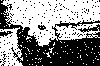
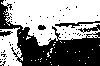
Add reconstruction function

diff --git a/proyecto-final/graph.py b/proyecto-final/graph.py
@@ -33,21 +33,28 @@ def add_costs(G, unary_matching_cost_source,
     edges = [edge for edge in G.edges()]
     for edge in edges:
         if isinstance(edge[0], tuple) and isinstance(edge[1], tuple):
-            if G.node[edge[0]]['value'] == G.node[edge[0]]['value']:
+            if G.node[edge[0]]['value'] == G.node[edge[1]]['value']:
                 G[edge[0]][edge[1]]['capacity'] = 0
             else:
                 G[edge[0]][edge[1]]['capacity'] = pairwise_cost
         elif isinstance(edge[0], tuple) and not isinstance(edge[1], tuple):
-            if G.node[edge[0]]['value'] == G.node[edge[0]]['value']:
+            if G.node[edge[0]]['value'] == G.node[edge[1]]['value']:
                 G[edge[0]][edge[1]]['capacity'] = unary_matching_cost_sink
             else:
                 G[edge[0]][edge[1]]['capacity'] = unary_nonmatching_cost_sink
         else:
-            if G.node[edge[0]]['value'] == G.node[edge[0]]['value']:
+            if G.node[edge[0]]['value'] == G.node[edge[1]]['value']:
                 G[edge[0]][edge[1]]['capacity'] = unary_matching_cost_source
             else:
                 G[edge[0]][edge[1]]['capacity'] = unary_nonmatching_cost_source
 
-# def recover_image(image, partition):
-#     clean_image = image
-#     if 0 in partition[0]:
+def recover_image(image, partition):
+    clean_image = image
+    if 1 in partition[0]:
+        for element in partition[0]:
+            if isinstance(element, tuple):
+                clean_image[element[0]][element[1]] = 0
+        for element in partition[1]:
+            if isinstance(element, tuple):
+                clean_image[element[0]][element[1]] = 255
+    return clean_image

diff --git a/proyecto-final/main.py b/proyecto-final/main.py
@@ -1,6 +1,6 @@
 from __future__ import division
 from noise import sp_noise
-from graph import create_graph, add_costs
+from graph import create_graph, add_costs, recover_image
 import matplotlib.pyplot as plt
 import networkx as nx
 import numpy as np
@@ -13,6 +13,7 @@ import glob
 folder_name = "./original_images/"
 binary_folder_name = "./binary_images/"
 noise_folder_name = "./noisy_images/"
+clean_folder_name = "./clean_images/"
 data_path = os.path.join(folder_name,'*G')
 G_files = glob.glob(data_path)
 data_path = os.path.join(folder_name,'*g')
@@ -20,13 +21,13 @@ g_files = glob.glob(data_path)
 files = g_files + G_files
 
 # Parameters for image size and noise:
-width_objective = 2
-noise_percentage = .05
+width_objective = 100
+noise_percentage = .01
 pairwise_cost = 1
 unary_matching_cost_source = .9
 unary_matching_cost_sink = .9
-unary_nonmatching_cost_source = .1
-unary_nonmatching_cost_sink = .1
+unary_nonmatching_cost_source = 1
+unary_nonmatching_cost_sink = 1
 
 # Loop over all images to resize and binarize:
 for image_name in files:
@@ -60,4 +61,7 @@ for image_name in files:
     # Max Flow
     flow_value, flow_dict = nx.maximum_flow(G, 1, 0)
     cut_value, partition = nx.minimum_cut(G,1, 0)
-    import pdb;pdb.set_trace()
+    # Denoise image
+    clean_image = recover_image(noisy_image, partition)
+    clean_image_name = image_name.replace(folder_name, clean_folder_name)
+    cv2.imwrite(clean_image_name, clean_image)
